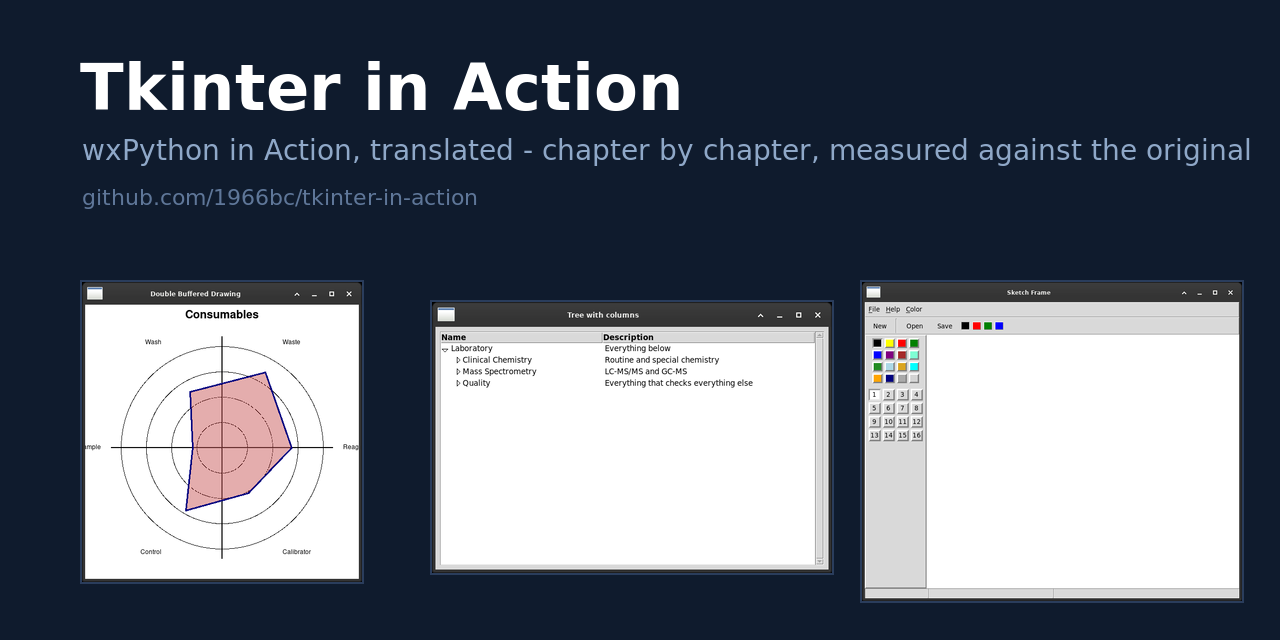
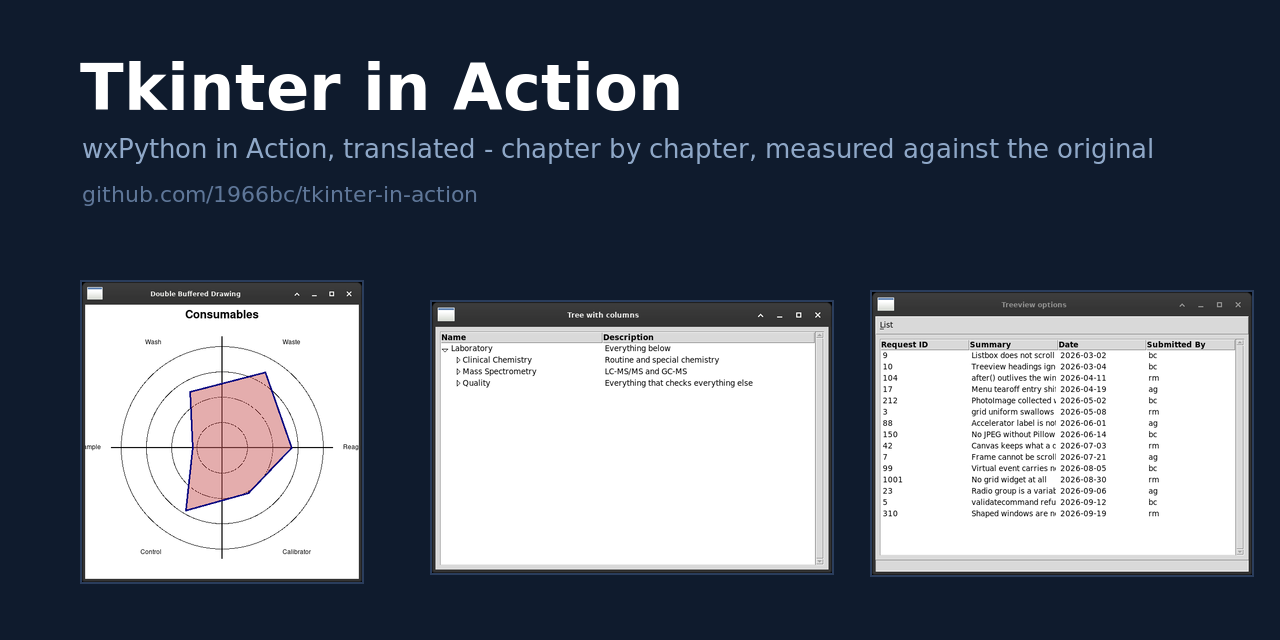
Make chapter 1 draw its own picture, and tidy what 2019 left behind
The one file in this repository that was not ours. Chapter-01 shipped the
picture hello.py displays, which came with the book's sources and has
been here since 2019 - and which contradicts what the README and the
front matter now say.

hello.py draws its own instead, with Pillow, on the first run. That keeps
the lesson rather than weakening it: Pillow writes a JPEG, and then
Pillow has to be asked to read it back, because a PhotoImage cannot. A
PNG would have been opened by Tk itself and there would be nothing left
to demonstrate.

Also gone: Chapter-04/init and Chapter-06/init, one byte each, left over
from making directories through the GitHub web interface in 2019.

The picture at the top of the README is now the same composite used for
the social preview, and the composite drops Sketch, whose canvas is empty
until somebody draws on it.

Changed region(s): [[0.6562, 0.4375, 1.0, 0.9375], [0.0625, 0.2188, 1.0, 0.25], [0.0625, 0.2812, 0.375, 0.3438]]

diff --git a/tests/test_chapter_01.py b/tests/test_chapter_01.py
@@ -88,11 +88,12 @@ class TestChapter01(unittest.TestCase):
         with the picture clipped by a pixel on each side."""
         import hello
 
-        self.app = hello.App(hello.IMAGE)
+        self.app = hello.App(hello.set_image(hello.IMAGE))
         self.app.update_idletasks()
 
         self.assertEqual((self.app.winfo_reqwidth(),
-                          self.app.winfo_reqheight()), (524, 125))
+                          self.app.winfo_reqheight()),
+                         (hello.WIDTH, hello.HEIGHT))
 
     def test_hello_keeps_a_reference_to_its_image(self):
         """The one that fails in silence. A widget does not own the image
@@ -103,20 +104,36 @@ class TestChapter01(unittest.TestCase):
         nothing in the log. Just an empty window."""
         import hello
 
-        self.app = hello.App(hello.IMAGE)
+        self.app = hello.App(hello.set_image(hello.IMAGE))
 
         self.assertTrue(hasattr(self.app, "photo"),
                         "the PhotoImage is not held anywhere")
         self.assertEqual(self.app.photo.width(), 524)
 
-    def test_hello_finds_its_picture_from_any_directory(self):
-        """The wx original opens 'wxPython.jpg' by a bare name and runs
-        only from the directory it sits in. This one is meant to be started
-        from anywhere, so the path is built from __file__."""
+    def test_hello_makes_its_own_picture_and_finds_it_anywhere(self):
+        """Two things at once.
+
+        The path is built from __file__, so the example runs from any
+        directory - the wx original opens its picture by a bare name and
+        runs only from the one it sits in.
+
+        And the picture is made rather than shipped, as a JPEG on
+        purpose: a PNG would be read by Tk itself and there would be
+        nothing left to demonstrate.
+        """
         import hello
 
         self.assertTrue(os.path.isabs(hello.IMAGE))
+        self.assertTrue(hello.IMAGE.endswith(".jpg"))
+
+        hello.set_image(hello.IMAGE)
         self.assertTrue(os.path.exists(hello.IMAGE))
+
+        # And Tk still cannot open it, which is the whole lesson. A
+        # PhotoImage lives inside an interpreter, so there has to be one
+        # before it can refuse.
+        self.app = tk.Tk()
+        self.assertRaises(tk.TclError, tk.PhotoImage, file=hello.IMAGE)
 
     def test_sample_reports_the_position_it_was_given(self):
         """Relative to the bound widget, which is what wx reports too.

diff --git a/Chapter-01/hello.py b/Chapter-01/hello.py
@@ -11,20 +11,48 @@
 The first thing in the book that Tkinter cannot do alone: it has no JPEG
 reader. Pillow supplies one. And the image has to be kept alive by hand or
 it vanishes; see README.md for both.
+
+The picture is made on the first run rather than shipped, which keeps the
+point rather than weakening it: Pillow writes a JPEG, and then Pillow has
+to be asked to read it back, because a PhotoImage cannot.
 """
 import os
 import sys
 import tkinter as tk
 
 try:
-    from PIL import Image, ImageTk
+    from PIL import Image, ImageDraw, ImageTk
 except ImportError:
     sys.exit("This example needs Pillow: apt install python3-pil.imagetk")
 
 
 # Beside this file, not in whatever directory the program was started from.
 IMAGE = os.path.join(os.path.dirname(os.path.abspath(__file__)),
-                     "wxPython.jpg")
+                     "hello.jpg")
+
+WIDTH = 524
+HEIGHT = 125
+
+
+def set_image(path):
+    """Draw the picture, once, if it is not already there.
+
+    A JPEG on purpose. A PNG would be read by Tk itself and there would be
+    nothing left to demonstrate.
+    """
+    if not os.path.exists(path):
+        image = Image.new("RGB", (WIDTH, HEIGHT), "#0f1b2d")
+        draw = ImageDraw.Draw(image)
+
+        draw.rectangle((8, 8, WIDTH - 9, HEIGHT - 9), outline="#2a3d5c",
+                       width=2)
+        draw.text((30, 44), "Hello, Tkinter!", fill="white")
+        draw.text((30, 70), "This picture is a JPEG, so Tk cannot read it.",
+                  fill="#8fa8c8")
+
+        image.save(path, "JPEG", quality=90)
+
+    return path
 
 
 class App(tk.Tk):
@@ -56,5 +84,5 @@ class App(tk.Tk):
 
 
 if __name__ == "__main__":
-    app = App(IMAGE)
+    app = App(set_image(IMAGE))
     app.mainloop()

diff --git a/Chapter-01/README.md b/Chapter-01/README.md
@@ -108,11 +108,17 @@ empty.
 In wx the bitmap is handed to the widget and the widget owns it. Nothing has
 to be remembered.
 
-**One repair to the original's habit.** The wx version opens `'wxPython.jpg'`
-by a bare name, which means the program only runs from the directory the file
-is in. Here the path is built from `__file__`, so the example runs from
-anywhere - which it has to, because every file in this project is meant to be
-run on its own.
+**One repair to the original's habit.** The wx version opens its picture by a
+bare name, which means the program only runs from the directory the file is
+in. Here the path is built from `__file__`, so the example runs from anywhere
+- which it has to, because every file in this project is meant to be run on
+its own.
+
+**And the picture is made rather than shipped.** Pillow draws it on the first
+run and saves it as a JPEG, which keeps the lesson rather than weakening it:
+Pillow writes a format that `PhotoImage` cannot read, and then Pillow has to
+be asked to read it back. A PNG would have been opened by Tk itself and there
+would be nothing left to demonstrate.
 
 Measured: the window comes out 524x125, the size of the image, once the
 Label is asked for `borderwidth=0` and `highlightthickness=0`. Without them

diff --git a/README.md b/README.md
@@ -4,7 +4,7 @@ The source code of *wxPython in Action* rewritten in Tkinter, chapter by
 chapter and file by file — and a record of what came across, what needed
 three options where there was one, and what did not arrive at all.
 
-![The radar chart of chapter 12](Chapter-12/figures/radargraph.png)
+![Tkinter in Action](.github/social-preview.png)
 
 ## What this is
 
